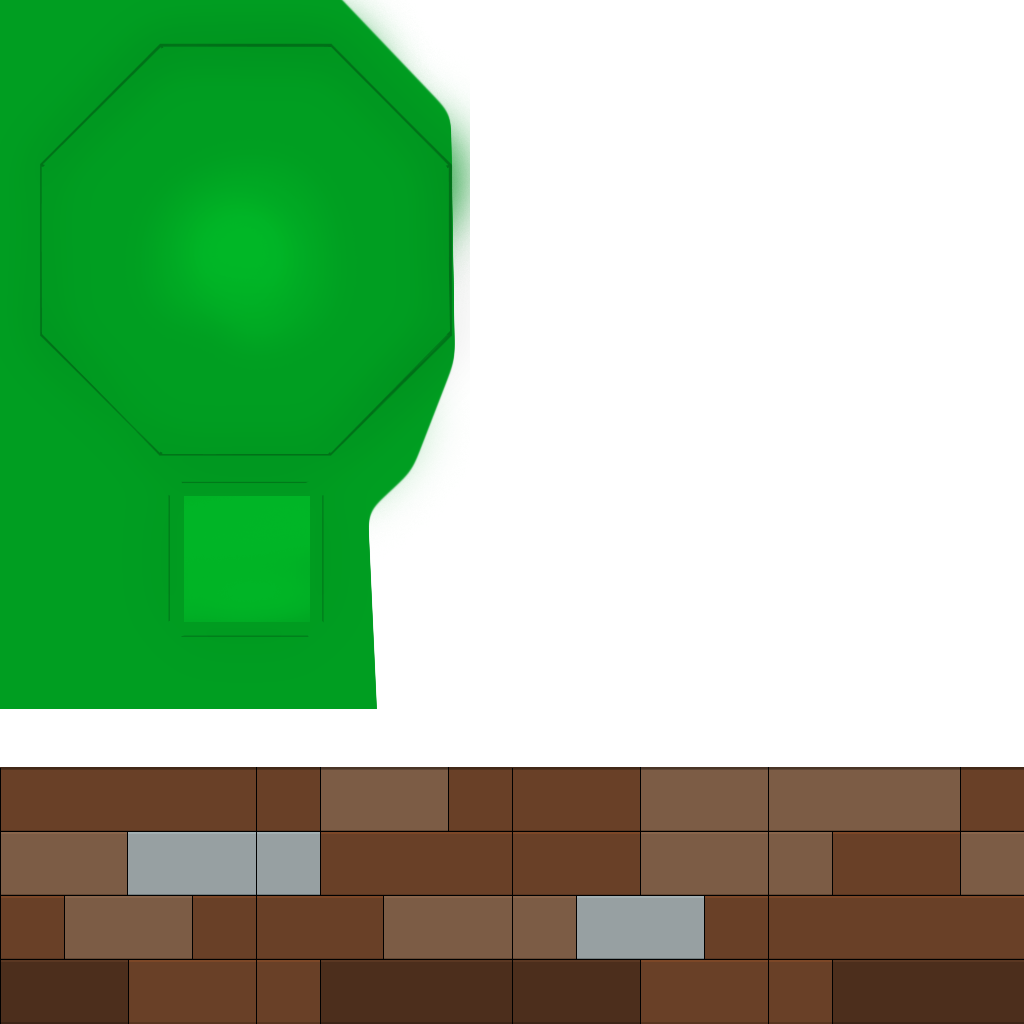
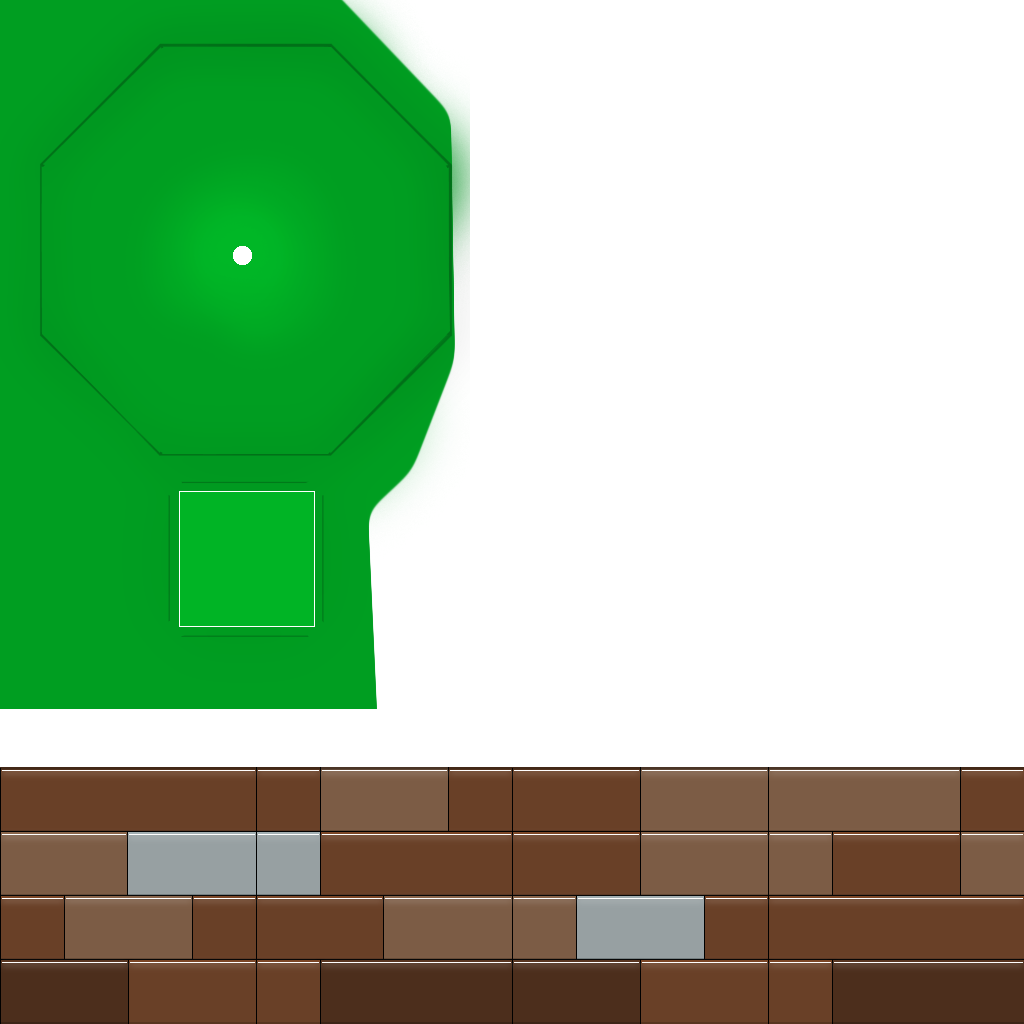
added the remaining models, the player needs to be coloured in

Changed region(s): [[0.1562, 0.4688, 0.3125, 0.5], [0.2188, 0.2188, 0.25, 0.2812]]

diff --git a/SFMLOpenGL/Game.cpp b/SFMLOpenGL/Game.cpp
@@ -66,6 +66,11 @@ BasicShader m_modelShader;
 
 Model m_testmodel;
 Model m_testlego; 
+Model m_spike;
+Model m_movingHazard;
+Model m_floatingPlatform;
+Model m_player;
+const float PLAYER_WIDTH = 0.6f;
 
 //Audio
 sf::SoundBuffer m_audioBuffer;
@@ -157,6 +162,7 @@ Game::Game(sf::ContextSettings settings) :
 	{
 		rampsObjects[i] = new GameObject();
 		rampsObjects[i]->setPosition(vec3(xpositionRamps, ypositionRamps, 0.0f));
+		rampsObjects[i]->setRotation(rand() % 4 * 1.5708f);
 		xpositionRamps += 2.0f;
 		ypositionRamps += 2.0f;
 	}
@@ -169,6 +175,7 @@ Game::Game(sf::ContextSettings settings) :
 	{
 		rampsObjects[i] = new GameObject();
 		rampsObjects[i]->setPosition(vec3(xpositionRamps1, ypositionRamps1, 0.0f));
+		rampsObjects[i]->setRotation(rand() % 4 * 1.5708f);
 		xpositionRamps1 += 3.0f;
 		ypositionRamps1 += 3.0f;
 	}
@@ -180,6 +187,7 @@ Game::Game(sf::ContextSettings settings) :
 	{
 		rampsObjects[i] = new GameObject();
 		rampsObjects[i]->setPosition(vec3(xpositionRamps2, ypositionRamps2, 0.0f));
+		rampsObjects[i]->setRotation(rand() % 4 * 1.5708f);
 		xpositionRamps1 += 2.5f;
 		ypositionRamps1 += 2.5f;
 	}
@@ -190,6 +198,7 @@ Game::Game(sf::ContextSettings settings) :
 
 		rampsObjects[i] = new GameObject();
 		rampsObjects[i]->setPosition(vec3(xpositionRamps3, ypositionRamps3, 0.0f));
+		rampsObjects[i]->setRotation(rand() % 4 * 1.5708f);
 		xpositionRamps3 += 3.0f;
 		ypositionRamps3 += 3.1f;
 	}
@@ -205,6 +214,7 @@ Game::Game(sf::ContextSettings settings) :
 
 		obstacleObject[i] = new GameObject();
 		obstacleObject[i]->setPosition(vec3(obstacleXPosition, -0.8f, 0.0f));
+		obstacleObject[i]->setRotation(rand() % 4 * 1.5708f);
 		obstacleXPosition += 25.0f;
 
 	}
@@ -213,8 +223,8 @@ Game::Game(sf::ContextSettings settings) :
 	for (int i = 0; i < 6; i++)
 	{
 
-		movingobstacleObject[i] = new GameObject();
-		movingobstacleObject[i]->setPosition(vec3(posmoveX, -0.8f, 0.0f));
+		spikeObjects[i] = new GameObject();
+		spikeObjects[i]->setPosition(vec3(posmoveX, -0.8f, 0.0f));
 		posmoveX += 30.0f;
 		
 	}
@@ -246,6 +256,7 @@ void Game::run()
 
 	if (sound_Loaded) { m_soundEffect.setBuffer(m_audioBuffer); }
 	if (music_Loaded) { m_music.play(); }	
+	m_music.setVolume(50.0f);
 
 	while (isRunning) {
 
@@ -327,6 +338,10 @@ void Game::initialize()
 	m_shader = BasicShader(".//Assets//Shaders//basicShader.vs", ".//Assets//Shaders//basicShader.fs");
 	m_modelShader = BasicShader(".//Assets//Shaders//modelShader.vs", ".//Assets//Shaders//modelShader.fs");
 	m_testlego = Model(".//Assets//Models//legoGround//ground.obj");
+	m_spike = Model(".//Assets//Models//legoSpike//spike.obj");
+	m_movingHazard = Model(".//Assets//Models//legoMovingHazard//movingHazard.obj");
+	m_player = Model(".//Assets//Models//legoPlayer//LEGO_Man.obj");
+	m_floatingPlatform = Model(".//Assets//Models//legoFloatingPlatform//floatingPlatform.obj");
 	   
 	// Copy UV's to all faces
 	for (int i = 1; i < 6; i++)
@@ -442,7 +457,7 @@ void Game::initialize()
 }
 
 void Game::update()
-{
+{	
 	//std::cout << playerObject->getPosition().x << std::endl;
 	//function calls for the move , ramps,objective,player move 
 	//,obstacle move,camera, obstacle collisions
@@ -455,12 +470,12 @@ void Game::update()
 	{
 		for (int j = 0; j < 16; j++)
 		{
-			if (playerObject->getPosition().x + 1 >= game_object[i]->getPosition().x - 1 &&
-				game_object[i]->getPosition().x + 1 >= playerObject->getPosition().x - 1 &&
+			if (playerObject->getPosition().x + PLAYER_WIDTH >= game_object[i]->getPosition().x - PLAYER_WIDTH &&
+				game_object[i]->getPosition().x + PLAYER_WIDTH >= playerObject->getPosition().x - PLAYER_WIDTH &&
 				playerObject->getPosition().y + 1 >= game_object[i]->getPosition().y - 1 &&
 				game_object[i]->getPosition().y + 1 >= playerObject->getPosition().y - 1 ||
-				playerObject->getPosition().x + 1 >= rampsObjects[j]->getPosition().x - 1 &&
-				rampsObjects[j]->getPosition().x + 1 >= playerObject->getPosition().x - 1 &&
+				playerObject->getPosition().x + PLAYER_WIDTH >= rampsObjects[j]->getPosition().x - PLAYER_WIDTH &&
+				rampsObjects[j]->getPosition().x + PLAYER_WIDTH >= playerObject->getPosition().x - PLAYER_WIDTH &&
 				playerObject->getPosition().y + 1 >= rampsObjects[j]->getPosition().y - 1 &&
 				rampsObjects[j]->getPosition().y + 1 >= playerObject->getPosition().y - 1)
 			{
@@ -634,49 +649,59 @@ void Game::render()
 		m_testlego.Draw(m_modelShader);
 	}
 
-	m_shader.use();
+	//m_shader.use();
 	
 	//set up mvp for player block
-	glUniformMatrix4fv(mvpID, 1, GL_FALSE, &mvpPlayer[0][0]);
+	/*glUniformMatrix4fv(mvpID, 1, GL_FALSE, &mvpPlayer[0][0]);
 	glUniform1f(x_offsetID, playerObject->getPosition().x);
 	glUniform1f(y_offsetID, playerObject->getPosition().y);
 	glUniform1f(y_offsetID, playerObject->getPosition().y);
 
-	glDrawElements(GL_TRIANGLES, 3 * INDICES, GL_UNSIGNED_INT, NULL);
+	glDrawElements(GL_TRIANGLES, 3 * INDICES, GL_UNSIGNED_INT, NULL);*/
 
-	//set up mvp for obstacles blocks
-	glUniformMatrix4fv(mvpID, 1, GL_FALSE, &mvpObstacle[0][0]);
+	glm::mat4 model = glm::mat4(1.0f);
+	model = glm::translate(model, glm::vec3(playerObject->getPosition().x, playerObject->getPosition().y, playerObject->getPosition().z)); // translate it down so it's at the center of the scene
+	model = glm::scale(model, glm::vec3(1.0f, 1.0f, 1.0f));	// it's a bit too big for our scene, so scale it down
+	model = glm::rotate(model, 1.5708f, glm::vec3(0, 1, 0));
+	m_modelShader.setMat4("model", model);
+	m_player.Draw(m_modelShader);
+
+	//m_modelShader.use();
 	//run through a for loop to draw  cubes
 	for (int i = 0; i < 5; i++)
 	{
-		glUniform1f(x_offsetID, obstacleObject[i]->getPosition().x);
-		glUniform1f(y_offsetID, obstacleObject[i]->getPosition().y);
-		glUniform1f(y_offsetID, obstacleObject[i]->getPosition().y);
-
-		glDrawElements(GL_TRIANGLES, 3 * INDICES, GL_UNSIGNED_INT, NULL);
+		// render the loaded model
+		glm::mat4 model = glm::mat4(1.0f);
+		model = glm::translate(model, glm::vec3(obstacleObject[i]->getPosition().x, obstacleObject[i]->getPosition().y, obstacleObject[i]->getPosition().z)); // translate it down so it's at the center of the scene
+		model = glm::scale(model, glm::vec3(1.0f, 1.0f, 1.0f));	// it's a bit too big for our scene, so scale it down
+		model = glm::rotate(model, obstacleObject[i]->getRotation(), glm::vec3(0, 1, 0));
+		m_modelShader.setMat4("model", model);
+		m_movingHazard.Draw(m_modelShader);
 	}
-
-	glUniformMatrix4fv(mvpID, 1, GL_FALSE, &mvpRamps[0][0]);
+	
 	//run through a for loop to draw  cubes
 	for (int i = 0; i < 15; i++)
 	{
-		glUniform1f(x_offsetID, rampsObjects[i]->getPosition().x);
-		glUniform1f(y_offsetID, rampsObjects[i]->getPosition().y);
-		glUniform1f(y_offsetID, rampsObjects[i]->getPosition().y);
-
-		glDrawElements(GL_TRIANGLES, 3 * INDICES, GL_UNSIGNED_INT, NULL);
+		glm::mat4 model = glm::mat4(1.0f);
+		model = glm::translate(model, glm::vec3(rampsObjects[i]->getPosition().x, rampsObjects[i]->getPosition().y, rampsObjects[i]->getPosition().z)); // translate it down so it's at the center of the scene
+		model = glm::scale(model, glm::vec3(1.0f, 1.0f, 1.0f));	// it's a bit too big for our scene, so scale it down
+		model = glm::rotate(model, rampsObjects[i]->getRotation(), glm::vec3(0, 1, 0));
+		m_modelShader.setMat4("model", model);
+		m_floatingPlatform.Draw(m_modelShader);
 	}
-	//set up mvp for moving blocks
-	glUniformMatrix4fv(mvpID, 1, GL_FALSE, &mvpMovingobs[0][0]);
+
 	//run through a for loop to draw  cubes
 	for (int i = 0; i < 5; i++)
 	{
-		glUniform1f(x_offsetID, movingobstacleObject[i]->getPosition().x);
-		glUniform1f(y_offsetID, movingobstacleObject[i]->getPosition().y);
-		glUniform1f(y_offsetID, movingobstacleObject[i]->getPosition().y);
-
-		glDrawElements(GL_TRIANGLES, 3 * INDICES, GL_UNSIGNED_INT, NULL);
+		// render the loaded model
+		glm::mat4 model = glm::mat4(1.0f);
+		model = glm::translate(model, glm::vec3(spikeObjects[i]->getPosition().x, spikeObjects[i]->getPosition().y, spikeObjects[i]->getPosition().z)); // translate it down so it's at the center of the scene
+		model = glm::scale(model, glm::vec3(1.0f, 1.0f, 1.0f));	// it's a bit too big for our scene, so scale it down
+		m_modelShader.setMat4("model", model);
+		m_spike.Draw(m_modelShader);
 	}
+
+	m_shader.use();
 	//set the mvp of the objective
 	glUniformMatrix4fv(mvpID, 1, GL_FALSE, &mvpObjective[0][0]);
 	//loop the through the objectives
@@ -688,22 +713,6 @@ void Game::render()
 
 		glDrawElements(GL_TRIANGLES, 3 * INDICES, GL_UNSIGNED_INT, NULL);
 	}
-	   	  		
-	
-
-	// render the loaded model
-	//glm::mat4 model = glm::mat4(1.0f);
-	//model = glm::translate(model, glm::vec3(0.0f, -4.0f, 0.0f)); // translate it down so it's at the center of the scene
-	//model = glm::scale(model, glm::vec3(1.0f, 1.0f, 1.0f));	// it's a bit too big for our scene, so scale it down
-	//m_modelShader.setMat4("model", model);
-	//m_testlego.Draw(m_modelShader);
-
-	//model = glm::mat4(1.0f);
-	//model = glm::translate(model, glm::vec3(0.0f, 4.0f, 0.0f)); // translate it down so it's at the center of the scene
-	//model = glm::scale(model, glm::vec3(1.0f, 1.0f, 1.0f));	// it's a bit too big for our scene, so scale it down
-	//m_modelShader.setMat4("model", model);
-	//m_testlego.Draw(m_modelShader);
-
 	
 	/*window.draw(playerRect);*/
 	window.display();
@@ -750,24 +759,24 @@ void Game::setUpcontent()
 void Game::obstacleCollision()
 {	
 	// checks the collision between the player and obstacle 0	
-	if(playerObject->getPosition().x  + 1 >= obstacleObject[0]->getPosition().x -1  &&
-		obstacleObject[0]->getPosition().x + 1 >= playerObject->getPosition().x - 1 &&
+	if(playerObject->getPosition().x  + PLAYER_WIDTH >= obstacleObject[0]->getPosition().x - PLAYER_WIDTH &&
+		obstacleObject[0]->getPosition().x + PLAYER_WIDTH >= playerObject->getPosition().x - PLAYER_WIDTH &&
 		playerObject->getPosition().y + 1 >= obstacleObject[0]->getPosition().y - 1 &&
 		obstacleObject[0]->getPosition().y + 1 >= playerObject->getPosition().y - 1)
 	{	
 		playerObject->setPosition(vec3(-4.0f, -0.8f, 0.0f));
 	}
 	// checks the collision between the player and obstacle 1	
-	else if (playerObject->getPosition().x + 1 >= obstacleObject[1]->getPosition().x - 1 &&
-		obstacleObject[1]->getPosition().x + 1 >= playerObject->getPosition().x - 1 &&
+	else if (playerObject->getPosition().x + PLAYER_WIDTH >= obstacleObject[1]->getPosition().x - PLAYER_WIDTH &&
+		obstacleObject[1]->getPosition().x + PLAYER_WIDTH >= playerObject->getPosition().x - PLAYER_WIDTH &&
 		playerObject->getPosition().y + 1 >= obstacleObject[1]->getPosition().y - 1 &&
 		obstacleObject[1]->getPosition().y + 1 >= playerObject->getPosition().y - 1)
 	{
 		playerObject->setPosition(vec3(-4.0f, -0.8f, 0.0f));
 	}
 	// checks the collision between the player and obstacle 2
-	else if (playerObject->getPosition().x + 1 >= obstacleObject[2]->getPosition().x - 1 &&
-		obstacleObject[2]->getPosition().x + 1 >= playerObject->getPosition().x - 1 &&
+	else if (playerObject->getPosition().x + PLAYER_WIDTH >= obstacleObject[2]->getPosition().x - PLAYER_WIDTH &&
+		obstacleObject[2]->getPosition().x + PLAYER_WIDTH >= playerObject->getPosition().x - PLAYER_WIDTH &&
 		playerObject->getPosition().y + 1 >= obstacleObject[2]->getPosition().y - 1 &&
 		obstacleObject[2]->getPosition().y + 1 >= playerObject->getPosition().y - 1)
 	{
@@ -779,8 +788,8 @@ void Game::rampsCollision()
 {
 	for (int i = 0; i < 15; i++)
 	{
-		if (playerObject->getPosition().x + 1 >= rampsObjects[i]->getPosition().x - 1 &&
-			rampsObjects[i]->getPosition().x + 1 >= playerObject->getPosition().x - 1 &&
+		if (playerObject->getPosition().x + PLAYER_WIDTH >= rampsObjects[i]->getPosition().x - PLAYER_WIDTH &&
+			rampsObjects[i]->getPosition().x + PLAYER_WIDTH >= playerObject->getPosition().x - PLAYER_WIDTH &&
 			playerObject->getPosition().y + 1 >= rampsObjects[i]->getPosition().y - 1 &&
 			rampsObjects[i]->getPosition().y + 1 >= playerObject->getPosition().y - 1)
 		{
@@ -799,10 +808,10 @@ void Game::movingblockCollision()
 	for (int i = 0; i < 5; i++)
 	{		
 		// checks the collision between the player and moving obstacles 0		
-		if (playerObject->getPosition().x + 1 >= movingobstacleObject[i]->getPosition().x - 1 &&
-			movingobstacleObject[i]->getPosition().x + 1 >= playerObject->getPosition().x - 1 &&
-			playerObject->getPosition().y + 1 >= movingobstacleObject[i]->getPosition().y - 1 &&
-			movingobstacleObject[i]->getPosition().y + 1 >= playerObject->getPosition().y - 1)
+		if (playerObject->getPosition().x + PLAYER_WIDTH >= spikeObjects[i]->getPosition().x - PLAYER_WIDTH &&
+			spikeObjects[i]->getPosition().x + PLAYER_WIDTH >= playerObject->getPosition().x - PLAYER_WIDTH &&
+			playerObject->getPosition().y + 1 >= spikeObjects[i]->getPosition().y - 1 &&
+			spikeObjects[i]->getPosition().y + 1 >= playerObject->getPosition().y - 1)
 		{
 			playerObject->setPosition(vec3(-4.0f, -0.8f, 0.0f));
 		}
@@ -815,8 +824,8 @@ void Game::objectiveCollision()
 	for (int i = 0; i < 2; i++)
 	{
 		//collision between player and objective
-		if (playerObject->getPosition().x + 1 >= objective[i]->getPosition().x - 1 &&
-			objective[i]->getPosition().x + 1 >= playerObject->getPosition().x - 1 &&
+		if (playerObject->getPosition().x + PLAYER_WIDTH >= objective[i]->getPosition().x - PLAYER_WIDTH &&
+			objective[i]->getPosition().x + PLAYER_WIDTH >= playerObject->getPosition().x - PLAYER_WIDTH &&
 			playerObject->getPosition().y + 1 >= objective[i]->getPosition().y - 1 &&
 			objective[i]->getPosition().y + 1 >= playerObject->getPosition().y - 1)
 		{

diff --git a/SFMLOpenGL/Game.h b/SFMLOpenGL/Game.h
@@ -37,12 +37,14 @@ public:
 	Game(sf::ContextSettings settings);
 	~Game();
 	void run();
+	void update();
+	void render();
 	
 private:
 	GameObject* game_object[100];
 	GameObject* playerObject;
 	GameObject* obstacleObject[5];
-	GameObject* movingobstacleObject[5];
+	GameObject* spikeObjects[5];
 	GameObject* rampsObjects[15];
 	GameObject* objective[2];
 	RenderWindow window;
@@ -70,9 +72,7 @@ private:
 	bool isRunning = false;
 	int m_timer{ 0 };
 	//all functions fo the game
-	void initialize();
-	void update();
-	void render();
+	void initialize();	
 	void unload();
 	void setUpcontent();
 	void obstacleCollision();

diff --git a/SFMLOpenGL/Main.cpp b/SFMLOpenGL/Main.cpp
@@ -9,6 +9,13 @@ int main(void)
 	settings.antialiasingLevel = 4u;
 
 	// Create a reference to the game and run
-	Game& game = Game(settings);
-	game.run();
+	Game& game = Game(settings);	
+
+	sf::Thread updateThread(&Game::update, &game);
+	sf::Thread renderThread(&Game::render, &game);
+
+	updateThread.launch();
+	renderThread.launch();
+
+	game.run();	
 }
